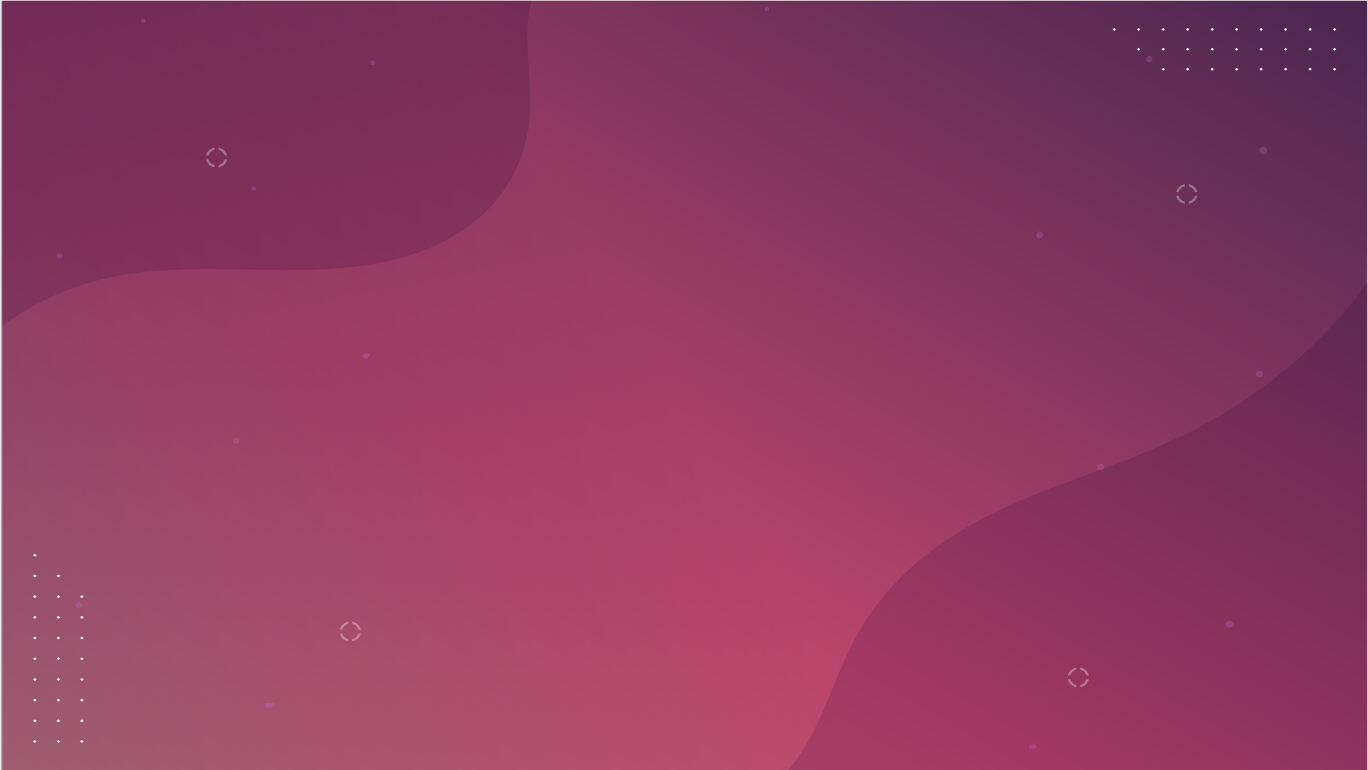
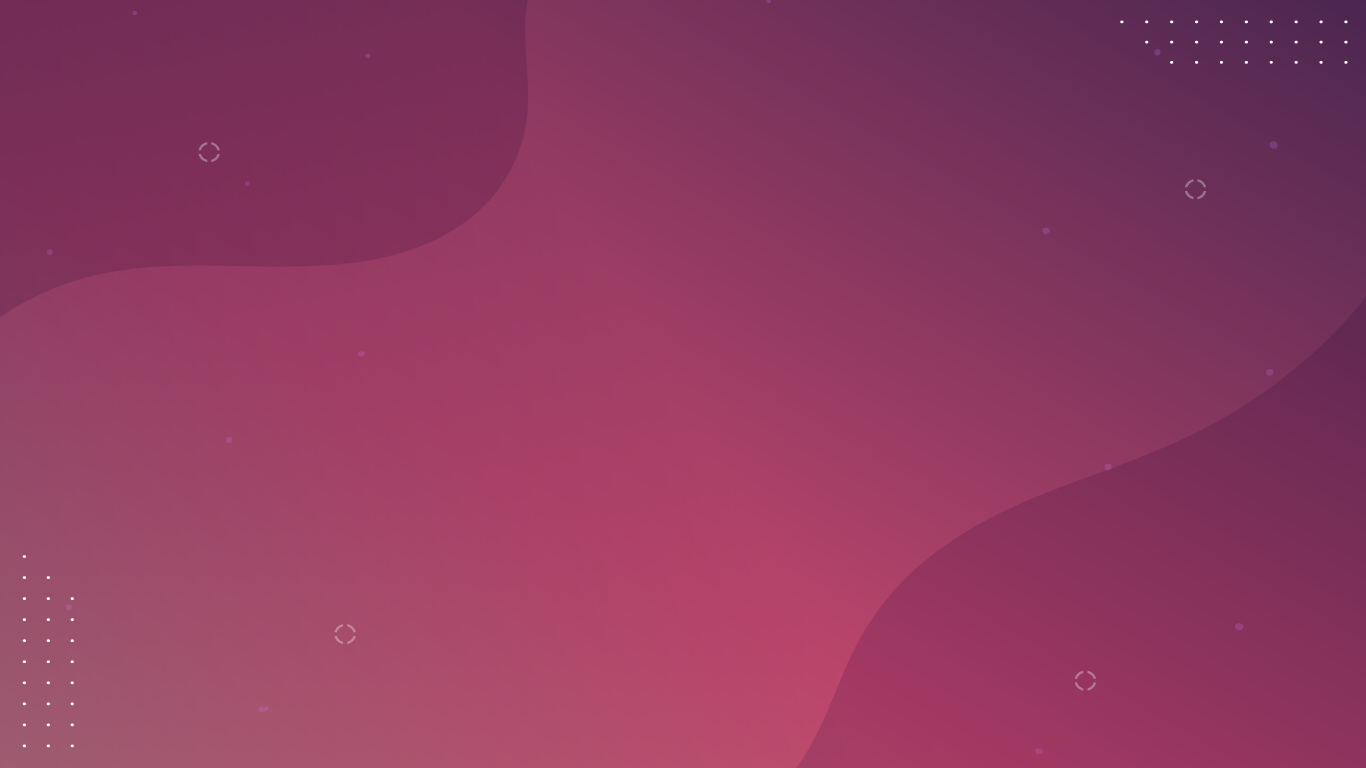
se aplicaron los estilos al header y al  homeScreen. Tambn se modifico el background

diff --git a/src/style.css b/src/style.css
@@ -1,21 +1,67 @@
 body {
-
   background-image: url(images/Fondo.png);
   background-repeat: no-repeat;
   background-size: cover;
   background-color: #492650;
   height: 100vh;
-  width: 100vw;
   display: flex;
   justify-content: center;
   align-items: center;
+  font-family: 'Montserrat', sans-serif;
 }
 
 main{
+  max-width: 25vw;
   border-radius: 20px;
   text-align: center;
   background: white;
-  width: 30%;
-  padding-top: 1%;
-  padding-bottom: 2%;
+  box-shadow: 0px 0px 30px 2px #1E0E40;
+}
+
+header{
+  background: linear-gradient(to top right, #492650 20%, #BB456B 70%, #D46175);
+  padding: 1% 2% 4% 2%;
+  border-top-left-radius: 19px;
+  border-top-right-radius: 19px;
+  color: white;
+}
+
+h1{
+  font-size: 40px;
+}
+
+h2{
+  font-size: 28px;
+}
+
+.explanation{
+  display: flex;
+  flex-direction: column;
+  justify-content: center;
+  align-items: center;
+  padding: 2% 2% 2% 2%;
+  border-top: 3px solid rgba(242,110,80, .5);
+  border-bottom: 3px solid rgba(242,110,80, .5);
+}
+
+.explanation p{
+  font-size: 18px;
+  max-width: 19vw;
+  padding: 1%;
+}
+
+.homeScreen{
+  display: flex;
+  flex-direction: column;
+  justify-content: center;
+  align-items: center;
+  padding: 8%;
+}
+
+.homeScreen input{
+  border-radius: 10px;
+  border: 2.5px outset #D46175;
+  font-size: 20px;
+  margin: 2% 2% 5% 2%;
+  padding: 3%;
 }
